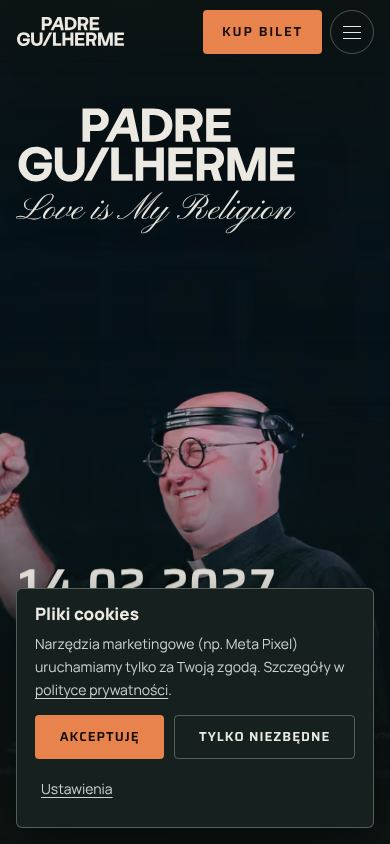
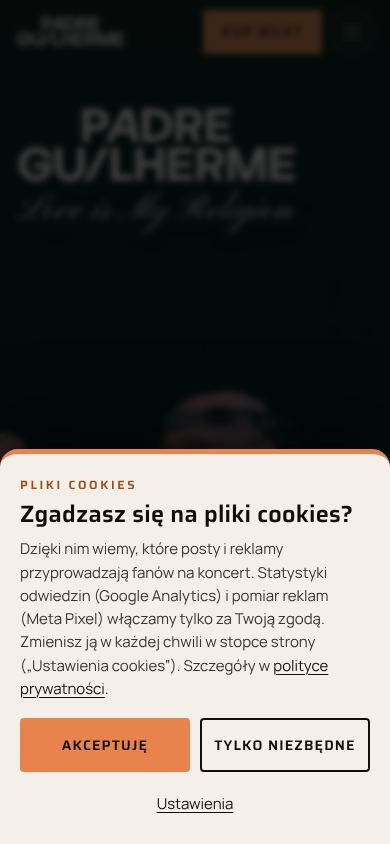
Baner cookies jako okno modalne (wyraźne, wybór przed dalszym przeglądaniem), fbclid w linkach Kup bilet
Uwaga agencji (28.10): baner w rogu zlewał się ze stroną i był pomijany, więc piksel nie startował.
- Okno modalne (<dialog> + showModal): strona przyciemniona i nieaktywna do wyboru; jasna karta
  odcina się od ciemnej strony; telefon: arkusz od dołu, komputer: środek ekranu; duże pytanie
  „Zgadzasz się na pliki cookies?” i krótko, po co (posty i reklamy przyprowadzające fanów).
- „Akceptuję” i „Tylko niezbędne” tej samej wielkości, widoczne bez przewijania (RODO, art. 399 PKE);
  Escape przy pierwszej wizycie nie zamyka okna, okno ze stopki zamyka i oddaje fokus.
- Bez showModal (stare przeglądarki) okno pokazuje się jak zwykły baner na dole.
- Linki „Kup bilet” przekazują też identyfikator kliknięcia reklamy (fbclid, gclid...) do eBilet,
  jak przekierowanie /bilety, żeby eBilet mógł przypisać zakup do reklamy.
- Testy: test-site 148/148 (nowe: okno modalne na 3 ekranach, równe przyciski, Escape, fbclid).

Claude-Session: https://claude.ai/code/session_01VWmRaWMyJhCKSyv75ZwcSc

diff --git a/index.html b/index.html
@@ -38,30 +38,31 @@
 <link rel="preload" href="assets/fonts/saira-pl.woff2" as="font" type="font/woff2" crossorigin>
 <link rel="preload" as="image" type="image/avif" imagesrcset="assets/img/hero-hd-m-600.avif?v=b63975ed 600w, assets/img/hero-hd-m-900.avif?v=0426b88e 900w, assets/img/hero-hd-m-1200.avif?v=6169c157 1200w, assets/img/hero-hd-m-1600.avif?v=4009c6de 1600w" imagesizes="100vw" media="(max-width: 767px) and (orientation: portrait)" fetchpriority="high">
 <link rel="preload" as="image" type="image/avif" imagesrcset="assets/img/hero-hd-960.avif?v=20fd5c1b 960w, assets/img/hero-hd-1440.avif?v=5f172bb5 1440w, assets/img/hero-hd-1920.avif?v=699e3273 1920w, assets/img/hero-hd-2560.avif?v=92996fc5 2560w, assets/img/hero-hd-3200.avif?v=f2b9bf8b 3200w" imagesizes="100vw" media="(min-width: 768px), (orientation: landscape)" fetchpriority="high">
-<link rel="stylesheet" href="assets/css/main.css?v=0cdc4c28">
-<script src="assets/js/config.js?v=b6ce08b6" defer></script>
+<link rel="stylesheet" href="assets/css/main.css?v=7cffbe88">
+<script src="assets/js/config.js?v=2302cd44" defer></script>
 <script>document.documentElement.classList.add('js');setTimeout(function(){if(!window.__pgReady)document.documentElement.classList.remove('js');},3000);</script>
-<script src="assets/js/main.js?v=410b020c" defer></script>
+<script src="assets/js/main.js?v=b7361297" defer></script>
 <script type="application/ld+json">{"@context":"https://schema.org","@graph":[{"@type":"WebSite","@id":"https://padreguilherme.pl/#strona","name":"Padre Guilherme w Atlas Arenie","url":"https://padreguilherme.pl/","inLanguage":"pl-PL","publisher":{"@id":"https://padreguilherme.pl/#live2listen"}},{"@type":"WebPage","@id":"https://padreguilherme.pl/#witryna","url":"https://padreguilherme.pl/","name":"Padre Guilherme w Polsce 2027 | Atlas Arena Łódź | Bilety","inLanguage":"pl-PL","isPartOf":{"@id":"https://padreguilherme.pl/#strona"},"about":{"@id":"https://padreguilherme.pl/#koncert"},"primaryImageOfPage":"https://padreguilherme.pl/assets/og-image.jpg"},{"@type":"MusicEvent","@id":"https://padreguilherme.pl/#koncert","name":"Padre Guilherme - Love is My Religion","description":"Koncert Padre Guilherme, księdza i DJ-a z Portugalii, który łączy energię techno z brzmieniem muzyki sakralnej. Support: Skytech.","startDate":"2027-02-14","eventStatus":"https://schema.org/EventScheduled","eventAttendanceMode":"https://schema.org/OfflineEventAttendanceMode","inLanguage":"pl-PL","url":"https://padreguilherme.pl/","image":["https://padreguilherme.pl/assets/og-image.jpg","https://padreguilherme.pl/assets/img/hero-hd-1920.jpg"],"location":{"@type":"Place","name":"Atlas Arena","url":"https://atlasarena.pl","address":{"@type":"PostalAddress","streetAddress":"al. Bandurskiego 7","postalCode":"94-020","addressLocality":"Łódź","addressRegion":"łódzkie","addressCountry":"PL"}},"performer":[{"@id":"https://padreguilherme.pl/#padre-guilherme"},{"@id":"https://padreguilherme.pl/#skytech"}],"organizer":{"@id":"https://padreguilherme.pl/#live2listen"},"offers":{"@type":"Offer","url":"https://www.ebilet.pl/muzyka/elektro-techno/padre-guilherme?partner=l2lsp#padre-guilherme_155685,1622","availability":"https://schema.org/InStock","validFrom":"2026-10-13"}},{"@type":"Person","@id":"https://padreguilherme.pl/#padre-guilherme","name":"Padre Guilherme","alternateName":"Guilherme Peixoto","description":"Portugalski ksiądz, DJ i producent muzyki elektronicznej.","nationality":{"@type":"Country","name":"Portugalia"},"image":"https://padreguilherme.pl/assets/img/artysta-1024.jpg","sameAs":["https://www.instagram.com/padre.guilherme/","https://www.tiktok.com/@padreguilherme","https://www.youtube.com/channel/UC8fYSaK9MMAvDmWIOZ2r1Yw","https://open.spotify.com/artist/7Gl7M2tjlIWsDWYa061TWh"]},{"@type":"Person","@id":"https://padreguilherme.pl/#skytech","name":"Skytech","description":"Polski DJ i producent muzyki elektronicznej.","url":"https://skytechmusic.com","image":"https://padreguilherme.pl/assets/img/skytech-pomaranczowe-800.jpg"},{"@type":"Organization","@id":"https://padreguilherme.pl/#live2listen","name":"Live2Listen","legalName":"L2L sp. z o.o.","url":"https://www.live2listen.com","sameAs":["https://www.facebook.com/live2listen/","https://www.instagram.com/live_2_listen/","https://www.tiktok.com/@live_2_listen"]},{"@type":"FAQPage","@id":"https://padreguilherme.pl/#faq","mainEntity":[{"@type":"Question","name":"Gdzie kupić bilety?","acceptedAnswer":{"@type":"Answer","text":"Bilety można zakupić wyłącznie, korzystając z linków zawartych na tej stronie. Bilety zakupione z innych źródeł mogą okazać się nieważne, a bilet nabyty z naruszeniem regulaminu może zostać unieważniony przez organizatora."}},{"@type":"Question","name":"Kiedy i gdzie odbędzie się koncert?","acceptedAnswer":{"@type":"Answer","text":"W niedzielę 14 lutego 2027 roku w Atlas Arenie w Łodzi, al. Bandurskiego 7."}},{"@type":"Question","name":"O której godzinie rozpocznie się wydarzenie?","acceptedAnswer":{"@type":"Answer","text":"Harmonogram wydarzenia zostanie opublikowany i przesłany do nabywców biletów na kilka dni przed wydarzeniem."}},{"@type":"Question","name":"Jak dojechać do Atlas Areny?","acceptedAnswer":{"@type":"Answer","text":"Atlas Arena znajduje się przy al. Bandurskiego 7 w Łodzi. Organizator zachęca do korzystania z komunikacji miejskiej lub taxi - oszczędzisz czas na szukaniu miejsca parkingowego. Dojazd i parkingi: atlasarena.pl: https://atlasarena.pl/"}},{"@type":"Question","name":"Czy osoby niepełnoletnie mogą uczestniczyć?","acceptedAnswer":{"@type":"Answer","text":"Tak. Osoby, które ukończyły 16 lat, mogą wejść samodzielnie z ważnym biletem i dokumentem potwierdzającym wiek. Brak dokumentu oznacza odmowę wstępu bez opiekuna. Osoby poniżej 16 lat mogą uczestniczyć w koncercie wyłącznie pod opieką osoby dorosłej i na jej odpowiedzialność. Bilet jest potrzebny zarówno dla dziecka, jak i dla opiekuna, a opiekun musi mieć wypełnione oświadczenie opiekuna małoletniego. Jedna osoba dorosła może być opiekunem maksymalnie pięciorga niepełnoletnich. Dzieci, które w dniu koncertu nie mają ukończonych 3 lat, wchodzą bezpłatnie. Zabierz dokument potwierdzający ich wiek i słuchawki ochronne. Regulamin wydarzeń Live2Listen: https://www.live2listen.com/regulamin"}},{"@type":"Question","name":"Jak wygląda dostępność dla osób z niepełnosprawnościami?","acceptedAnswer":{"@type":"Answer","text":"Jeśli osoba z niepełnosprawnością przychodzi z opiekunem, bilet potrzebny jest dla każdej z tych osób. Jeśli na planie sali nie ma oznaczonych miejsc dla osób poruszających się na wózkach, kup dowolny bilet - obsługa na miejscu wskaże bezpieczne miejsca przygotowane dla osób z niepełnosprawnościami. Jeśli potrzebujesz dodatkowego wsparcia, zgłoś się do obsługi widowni."}},{"@type":"Question","name":"Czy bilety można przekazać innej osobie?","acceptedAnswer":{"@type":"Answer","text":"Tak, bilet możesz przekazać innej osobie w aplikacji, w której go kupiono. Bilety na wydarzenia Live2Listen nie podlegają standardowemu zwrotowi, z wyjątkiem przypadków przewidzianych w przepisach prawa lub regulaminie sprzedaży. Jeśli nie możesz przyjść, skorzystaj z oficjalnej odsprzedaży biletów - będzie dostępna najpóźniej tydzień przed koncertem."}},{"@type":"Question","name":"Jak skontaktować się z organizatorem?","acceptedAnswer":{"@type":"Answer","text":"Organizatorem koncertu jest Live2Listen (L2L sp. z o.o.). Napisz przez formularz kontaktowy na stronie Live2Listen, także w sprawach mediów i akredytacji. W sprawach zakupu biletu, braku biletu w e-mailu lub kodu kreskowego kontaktuj się z obsługą klienta serwisu, w którym kupiono bilet. Formularz kontaktowy Live2Listen: https://www.live2listen.com/#kontakt"}},{"@type":"Question","name":"Co w przypadku zmiany terminu?","acceptedAnswer":{"@type":"Answer","text":"Jeśli koncert zostanie przeniesiony na inny termin lub do innego obiektu, kupione bilety zachowują ważność i nie trzeba ich wymieniać. O zmianie poinformuje Cię e-mailem dystrybutor biletów, a organizator opublikuje informację w swoich kanałach i na tej stronie."}},{"@type":"Question","name":"Co muszę mieć ze sobą, aby wejść na koncert?","acceptedAnswer":{"@type":"Answer","text":"Bilet i dokument tożsamości."}},{"@type":"Question","name":"Czy bilet elektroniczny trzeba wydrukować?","acceptedAnswer":{"@type":"Answer","text":"Nie. Na wejściu pokażesz bilet elektroniczny, np. na smartfonie. Zdjęcia i zrzuty ekranu biletów nie są akceptowane."}},{"@type":"Question","name":"Kupiłem/-am kilka biletów na swoje nazwisko. Czy pozostałe osoby wejdą bez problemu?","acceptedAnswer":{"@type":"Answer","text":"Tak, o ile ich bilety nie zostaną wcześniej zeskanowane. Najlepiej wchodźcie razem. Każdy bilet ma unikalny kod uprawniający do jednorazowego wejścia."}},{"@type":"Question","name":"Kupiłem/-am bilet, ale nie dostałem/-am go e-mailem albo nie ma na nim kodu kreskowego. Co robić?","acceptedAnswer":{"@type":"Answer","text":"Płatność mogła jeszcze nie zostać zaksięgowana. Jeśli po 24 godzinach (dniu roboczym) nadal nie masz biletu albo bilet nie ma kodu kreskowego, skontaktuj się z obsługą klienta serwisu, w którym kupiono bilet. Sprawdź też, czy adres e-mail przy zakupie nie zawierał literówki."}},{"@type":"Question","name":"Jakich przedmiotów nie można wnosić?","acceptedAnswer":{"@type":"Answer","text":"Na teren imprezy nie wolno wnosić m.in.: - kamer i sprzętu nagrywającego audio i wideo - profesjonalnego sprzętu fotograficznego, w tym aparatów z wymienną optyką i zoomem optycznym powyżej 6x - statywów i kijków do selfie - dronów - dużych parasoli z ostrymi zakończeniami - deskorolek, hulajnóg, rolek i podobnych pojazdów - jedzenia i napojów (z wyjątkiem diety potwierdzonej zaświadczeniem lekarskim) - dużych plecaków i toreb większych niż 11,4 × 16,51 cm - niebezpiecznych przedmiotów, w tym broni, petard i rac - alkoholu i środków odurzających Regulamin wydarzeń Live2Listen: https://www.live2listen.com/regulamin"}},{"@type":"Question","name":"Czy mogę robić zdjęcia i nagrywać filmy?","acceptedAnswer":{"@type":"Answer","text":"Tak, wyłącznie do użytku prywatnego i telefonem lub aparatem bez profesjonalnych funkcji. Organizator może wprowadzić dodatkowe zasady - poinformuje o nich na tej stronie."}},{"@type":"Question","name":"Czy mogę wyjść i wrócić?","acceptedAnswer":{"@type":"Answer","text":"Nie. Ponowne wejście po opuszczeniu terenu imprezy wymaga nowego biletu."}},{"@type":"Question","name":"Czy będzie szatnia?","acceptedAnswer":{"@type":"Answer","text":"Informacje o szatni znajdziesz na stronie Atlas Areny. Przechowanie odzieży wierzchniej jest płatne."}},{"@type":"Question","name":"Czy mogę przyjść ze zwierzęciem?","acceptedAnswer":{"@type":"Answer","text":"Nie. Ze względów bezpieczeństwa na wydarzenia Live2Listen nie można wprowadzać zwierząt."}}]}]}</script>
 </head>
 <body>
 <a class="skip-link" href="#tresc">Przejdź do treści</a>
 
-<div class="consent" data-consent role="dialog" aria-labelledby="consent-title" aria-describedby="consent-desc" hidden>
-  <p class="consent__title" id="consent-title"><strong>Pliki cookies</strong></p>
-  <p id="consent-desc">Statystyki odwiedzin (Google Analytics) i narzędzia marketingowe (Meta Pixel) uruchamiamy tylko za Twoją zgodą. Szczegóły w <a href="https://www.live2listen.com/prywatnosc" data-privacy-link target="_blank" rel="noopener">polityce prywatności<span class="visually-hidden"> (otwiera się w nowej karcie)</span></a>.</p>
+<dialog class="consent" data-consent aria-labelledby="consent-title" aria-describedby="consent-desc">
+  <p class="consent__kicker" aria-hidden="true">Pliki cookies</p>
+  <p class="consent__title" id="consent-title" tabindex="-1">Zgadzasz się na pliki cookies?</p>
+  <p class="consent__desc" id="consent-desc">Dzięki nim wiemy, które posty i reklamy przyprowadzają fanów na koncert. Statystyki odwiedzin (Google Analytics) i pomiar reklam (Meta Pixel) włączamy tylko za Twoją zgodą. Zmienisz ją w każdej chwili w stopce strony („Ustawienia cookies”). Szczegóły w <a href="https://www.live2listen.com/prywatnosc" data-privacy-link target="_blank" rel="noopener">polityce prywatności<span class="visually-hidden"> (otwiera się w nowej karcie)</span></a>.</p>
   <div class="consent__opts" data-consent-opts hidden>
     <label class="check"><input type="checkbox" checked disabled> <span>Niezbędne - zawsze aktywne</span></label>
     <label class="check"><input type="checkbox" data-consent-analytics> <span>Analityczne (statystyki odwiedzin)</span></label>
     <label class="check"><input type="checkbox" data-consent-marketing> <span>Marketingowe (remarketing i pomiar reklam)</span></label>
   </div>
   <div class="consent__actions">
-    <button class="btn btn--primary btn--sm" type="button" data-consent-accept>Akceptuję</button>
-    <button class="btn btn--ghost btn--sm" type="button" data-consent-reject>Tylko niezbędne</button>
+    <button class="btn btn--primary" type="button" data-consent-accept>Akceptuję</button>
+    <button class="btn btn--ghost" type="button" data-consent-reject>Tylko niezbędne</button>
+    <button class="btn btn--ghost consent__save" type="button" data-consent-save hidden>Zapisz wybór</button>
     <button class="linklike consent__more" type="button" data-consent-custom>Ustawienia</button>
-    <button class="btn btn--ghost btn--sm" type="button" data-consent-save hidden>Zapisz wybór</button>
   </div>
-</div>
+</dialog>
 
 <header class="site-header" data-header>
   <div class="site-header__inner wrap">

diff --git a/assets/js/main.js b/assets/js/main.js
@@ -32,6 +32,17 @@
     } catch (e) { /* brak URLSearchParams */ }
     return found;
   })();
+  // Identyfikatory kliknięcia reklamy (fbclid z Meta, gclid z Google...): tylko do linków „Kup bilet”, jak w /bilety.
+  // Dzięki nim eBilet (po zgodzie w swoim banerze) przypisze zakup do reklamy. Nie trafiają do zdarzeń pomiaru.
+  var CLICK_KEYS = ['fbclid', 'gclid', 'gbraid', 'wbraid', 'ttclid', 'msclkid'];
+  var clickIds = (function () {
+    var found = {};
+    try {
+      var qs = new URLSearchParams(location.search);
+      CLICK_KEYS.forEach(function (k) { var v = qs.get(k); if (v && /^[A-Za-z0-9._-]{1,1000}$/.test(v)) found[k] = v; });
+    } catch (e) { /* brak URLSearchParams */ }
+    return found;
+  })();
 
   /* ---------- Pomiar ---------- */
   window.dataLayer = window.dataLayer || [];
@@ -124,15 +135,22 @@
     var btnSave = $('[data-consent-save]', box);
     var btnCustom = $('[data-consent-custom]', box);
     var opener = null;
-    // Miejsce pod banerem: element z fokusem nie chowa się za nim (scroll-padding) i da się dojść do końca strony.
-    function reserve(on) {
-      var h = on ? (box.offsetHeight + 24) + 'px' : '';
-      root.style.scrollPaddingBottom = h; doc.body.style.paddingBottom = h;
+    // Okno modalne: strona za nim jest nieaktywna, fokus zostaje w oknie. Bez showModal (stare przeglądarki)
+    // okno pokazuje się jak zwykły baner na dole ekranu.
+    function show() {
+      if (!box.hasAttribute('open')) {
+        try { box.showModal(); root.classList.add('consent-open'); } catch (e) { box.setAttribute('open', ''); }
+      }
+      updateSticky();
+    }
+    function hide() {
+      if (box.hasAttribute('open')) { try { box.close(); } catch (e) { box.removeAttribute('open'); } }
+      root.classList.remove('consent-open'); updateSticky();
     }
     function save(c) {
       c.v = CONSENT_V; c.ts = Date.now();
       store.set('pg_consent', c);
-      box.hidden = true; reserve(false); updateSticky();
+      hide();
       if (withdraw(c)) { location.reload(); return; }
       applyConsent(c);
       var back = opener && opener.isConnected ? opener : doc.getElementById('tresc');
@@ -143,8 +161,7 @@
       var saved = readConsent() || {};
       cbA.checked = !!saved.analytics; cbM.checked = !!saved.marketing;
       opts.hidden = !custom; btnSave.hidden = !custom; btnCustom.hidden = !!custom;
-      box.hidden = false;
-      reserve(true); updateSticky();
+      show();
     }
     $('[data-consent-accept]', box).addEventListener('click', function () { save({ analytics: true, marketing: true }); });
     $('[data-consent-reject]', box).addEventListener('click', function () { save({ analytics: false, marketing: false }); });
@@ -152,25 +169,27 @@
     btnSave.addEventListener('click', function () { save({ analytics: cbA.checked, marketing: cbM.checked }); });
     var reopen = $('[data-consent-open]');
     if (reopen) { reopen.hidden = false; reopen.addEventListener('click', function () { opener = reopen; open(true); cbA.focus(); }); }
-    window.addEventListener('resize', function () { if (!box.hidden) reserve(true); });
-    box.addEventListener('keydown', function (e) {
-      if (!opener) return;
-      if (e.key === 'Escape') { e.preventDefault(); box.hidden = true; reserve(false); updateSticky(); var o = opener; opener = null; o.focus(); return; }
-      if (e.key !== 'Tab') return;
-      var f = $$('input:not([disabled]), button, a[href]', box).filter(function (el) { return el.offsetParent !== null; });
-      if ((!e.shiftKey && doc.activeElement === f[f.length - 1]) || (e.shiftKey && doc.activeElement === f[0])) { e.preventDefault(); opener.focus(); }
+    // Escape (i gest „wstecz” na Androidzie): przy pierwszej wizycie okno zostaje, bo czeka na wybór;
+    // otwarte ze stopki („Ustawienia cookies”) zamyka się bez zmian. Gdyby przeglądarka i tak je zamknęła,
+    // nic nie jest zapisywane: brak zgody, okno wróci przy następnej wizycie.
+    box.addEventListener('cancel', function (e) { if (!opener) e.preventDefault(); });
+    box.addEventListener('close', function () {
+      root.classList.remove('consent-open'); updateSticky();
+      if (opener) { var o = opener; opener = null; o.focus(); }
     });
     var saved = readConsent();
-    if (saved) applyConsent(saved); else open(false);
+    if (saved) applyConsent(saved);
+    else { open(false); var t = $('#consent-title', box); if (t) t.focus({ preventScroll: true }); }
   }
 
   /* ---------- Bilety ---------- */
   function ticketHref() {
     if (!cfg.ticketUrl) return '';
-    if (!cfg.passUtmToTicketUrl || !Object.keys(campaign).length) return cfg.ticketUrl;
+    if (!cfg.passUtmToTicketUrl || !(Object.keys(campaign).length || Object.keys(clickIds).length)) return cfg.ticketUrl;
     try {
       var u = new URL(cfg.ticketUrl);
       UTM_KEYS.forEach(function (k) { if (campaign[k] && k.indexOf('utm_') === 0 && !u.searchParams.has(k)) u.searchParams.set(k, campaign[k]); });
+      CLICK_KEYS.forEach(function (k) { if (clickIds[k] && !u.searchParams.has(k)) u.searchParams.set(k, clickIds[k]); });
       return u.toString();
     } catch (e) { return cfg.ticketUrl; }
   }
@@ -575,7 +594,7 @@
     if (!sticky) return;
     var consentBox = $('[data-consent]');
     var show = mqMobile.matches && !stickyState.heroVisible && !stickyState.stopVisible && !stickyState.typing &&
-      !root.classList.contains('nav-open') && !root.classList.contains('lb-open') && !(consentBox && !consentBox.hidden);
+      !root.classList.contains('nav-open') && !root.classList.contains('lb-open') && !(consentBox && consentBox.hasAttribute('open'));
     sticky.classList.toggle('is-visible', show);
     root.classList.toggle('has-sticky', show);
     sticky.setAttribute('aria-hidden', String(!show));

diff --git a/assets/css/main.css b/assets/css/main.css
@@ -619,24 +619,49 @@ a:hover .play, a:focus-visible .play { background: var(--accent); color: var(--i
 .lb-open { overflow: hidden; }
 
 /* ==== Zgoda na cookies ==== */
-.consent { position: fixed; left: 16px; right: 16px; bottom: calc(16px + env(safe-area-inset-bottom, 0px)); z-index: 90; max-width: 440px; max-height: calc(100vh - 32px); max-height: calc(100dvh - 32px - env(safe-area-inset-bottom, 0px)); overflow-y: auto; overscroll-behavior: contain; padding: 22px; border: 1px solid var(--line-2); border-radius: 6px; background: var(--surface); box-shadow: 0 20px 60px rgba(0, 0, 0, 0.5); font-size: 0.875rem; color: var(--fg-2); }
-.consent__title { font-size: 1.0625rem; line-height: 1.3; color: var(--fg); }
-@media (min-width: 768px) { .consent { left: auto; right: 16px; } }
-.nav-open .consent { visibility: hidden; }
-.consent p + p { margin-top: 8px; }
-.consent__opts { margin-top: 8px; }
-.consent__actions { display: flex; flex-wrap: wrap; align-items: center; gap: 8px 10px; margin-top: 14px; }
-.consent__actions .btn { padding: 0 16px; letter-spacing: 0.08em; }
-.consent__more { min-height: 44px; padding: 0 6px; font-size: 0.875rem; color: var(--fg-2); }
-@media (max-width: 480px) {
-  .consent { left: 8px; right: 8px; bottom: calc(8px + env(safe-area-inset-bottom, 0px)); padding: 12px 14px; font-size: 0.8125rem; line-height: 1.45; }
-  /* Tytuł tylko dla czytników ekranu: baner zasłania mniej z pierwszego ekranu. */
-  .consent__title { position: absolute; width: 1px; height: 1px; margin: -1px; overflow: hidden; clip: rect(0 0 0 0); white-space: nowrap; }
-  .consent p { margin-top: 0; }
-  .consent__actions { flex-wrap: wrap; gap: 6px; margin-top: 10px; }
-  .consent__actions .btn { flex: 1 1 0; min-height: 44px; padding: 0 10px; font-size: 0.75rem; letter-spacing: 0.04em; }
-  .consent__actions .consent__more { flex: none; padding: 0 4px; font-size: 0.8125rem; }
+/* Okno modalne (<dialog> + showModal): strona za nim jest przyciemniona i nieaktywna do wyboru.
+   Jasna karta odcina się od ciemnej strony. Telefon: arkusz od dołu (kciuk), komputer: środek ekranu.
+   „Akceptuję” i „Tylko niezbędne” mają ten sam rozmiar i są równie łatwe do kliknięcia (RODO, art. 399 PKE). */
+.consent {
+  --c-bg: #F4EFE8; --c-text: #3A3330; --c-kicker: #A54A17;
+  color-scheme: light;
+  position: fixed; inset: auto 0 0 0; z-index: 95;
+  width: 100%; max-width: none; height: auto; max-height: calc(100vh - 12px); max-height: calc(100dvh - 12px);
+  margin: 0; padding: 22px 20px calc(18px + env(safe-area-inset-bottom, 0px));
+  overflow-y: auto; overscroll-behavior: contain;
+  border: 0; border-top: 5px solid var(--accent); border-radius: 18px 18px 0 0;
+  background: var(--c-bg); color: var(--ink); box-shadow: 0 -24px 70px rgba(0, 0, 0, 0.6);
+  font-size: 0.9375rem; line-height: 1.55;
 }
+.consent:not([open]) { display: none; }
+.consent::backdrop { background: rgba(4, 8, 7, 0.76); -webkit-backdrop-filter: blur(3px); backdrop-filter: blur(3px); }
+.consent[open] { animation: consent-in 0.34s var(--ease) both; }
+.consent[open]::backdrop { animation: consent-fade 0.34s ease both; }
+@keyframes consent-in { from { transform: translateY(40px); opacity: 0; } }
+@keyframes consent-fade { from { opacity: 0; } }
+.consent-open { overflow: hidden; }
+.consent__kicker { margin: 0; font-family: var(--f-display); font-weight: 600; font-size: 0.75rem; letter-spacing: 0.22em; text-transform: uppercase; color: var(--c-kicker); }
+.consent__title { margin: 6px 0 0; font-family: var(--f-display); font-weight: 600; font-size: clamp(1.4rem, 1.15rem + 1.3vw, 2rem); line-height: 1.15; letter-spacing: 0.01em; color: var(--ink); text-wrap: balance; }
+.consent__title:focus { outline: none; }
+.consent__desc { margin: 10px 0 0; color: var(--c-text); }
+.consent a { color: var(--ink); text-decoration-thickness: 1px; text-underline-offset: 0.18em; }
+.consent a:focus-visible, .consent button:focus-visible, .consent input:focus-visible { outline: 3px solid var(--ink); outline-offset: 2px; }
+.consent__opts { margin-top: 6px; }
+.consent .check { color: var(--c-text); }
+.consent__actions { display: grid; grid-template-columns: 1fr 1fr; gap: 10px; margin-top: 18px; }
+.consent__actions .btn { min-height: 54px; padding: 6px 10px; font-size: 0.875rem; letter-spacing: 0.08em; line-height: 1.2; white-space: normal; text-align: center; }
+.consent .btn--ghost { border: 2px solid var(--ink); color: var(--ink); background: transparent; }
+.consent .btn--ghost:hover { border-color: var(--ink); color: var(--ink); background: rgba(21, 13, 8, 0.07); }
+.consent__save { grid-column: 1 / -1; }
+.consent__more { grid-column: 1 / -1; justify-self: center; min-height: 44px; padding: 0 10px; font-size: 0.9375rem; color: var(--ink); }
+@media (max-width: 339px) { .consent__actions { grid-template-columns: 1fr; } }
+@media (min-width: 768px) {
+  .consent { inset: 0; width: min(600px, calc(100% - 48px)); height: fit-content; max-height: calc(100vh - 48px); max-height: calc(100dvh - 48px); margin: auto; padding: 34px 40px 26px; border-top-width: 6px; border-radius: 14px; box-shadow: 0 30px 90px rgba(0, 0, 0, 0.65); font-size: 1rem; }
+  .consent[open] { animation-name: consent-pop; }
+  .consent__actions .btn { min-height: 56px; font-size: 0.9375rem; }
+}
+@keyframes consent-pop { from { transform: translateY(16px) scale(0.98); opacity: 0; } }
+@media (prefers-reduced-motion: reduce) { .consent[open], .consent[open]::backdrop { animation: none; } }
 
 /* ==== Bez JavaScriptu (lub gdy main.js się nie wczyta) ==== */
 html:not(.js) .acc__icon, html:not(.js) .expander__icon { display: none; }

diff --git a/src/index.html b/src/index.html
@@ -46,21 +46,23 @@
 <body>
 <a class="skip-link" href="#tresc">Przejdź do treści</a>
 
-<div class="consent" data-consent role="dialog" aria-labelledby="consent-title" aria-describedby="consent-desc" hidden>
-  <p class="consent__title" id="consent-title"><strong>Pliki cookies</strong></p>
-  <p id="consent-desc">Statystyki odwiedzin (Google Analytics) i narzędzia marketingowe (Meta Pixel) uruchamiamy tylko za Twoją zgodą. Szczegóły w <a href="https://www.live2listen.com/prywatnosc" data-privacy-link target="_blank" rel="noopener">polityce prywatności</a>.</p>
+<!-- Zgoda na cookies: okno modalne (przyciemniona strona), wybór przed dalszym przeglądaniem. „Akceptuję” i „Tylko niezbędne” są tak samo duże i łatwe (wymóg RODO i art. 399 PKE). -->
+<dialog class="consent" data-consent aria-labelledby="consent-title" aria-describedby="consent-desc">
+  <p class="consent__kicker" aria-hidden="true">Pliki cookies</p>
+  <p class="consent__title" id="consent-title" tabindex="-1">Zgadzasz się na pliki cookies?</p>
+  <p class="consent__desc" id="consent-desc">Dzięki nim wiemy, które posty i reklamy przyprowadzają fanów na koncert. Statystyki odwiedzin (Google Analytics) i pomiar reklam (Meta Pixel) włączamy tylko za Twoją zgodą. Zmienisz ją w każdej chwili w stopce strony („Ustawienia cookies”). Szczegóły w <a href="https://www.live2listen.com/prywatnosc" data-privacy-link target="_blank" rel="noopener">polityce prywatności</a>.</p>
   <div class="consent__opts" data-consent-opts hidden>
     <label class="check"><input type="checkbox" checked disabled> <span>Niezbędne - zawsze aktywne</span></label>
     <label class="check"><input type="checkbox" data-consent-analytics> <span>Analityczne (statystyki odwiedzin)</span></label>
     <label class="check"><input type="checkbox" data-consent-marketing> <span>Marketingowe (remarketing i pomiar reklam)</span></label>
   </div>
   <div class="consent__actions">
-    <button class="btn btn--primary btn--sm" type="button" data-consent-accept>Akceptuję</button>
-    <button class="btn btn--ghost btn--sm" type="button" data-consent-reject>Tylko niezbędne</button>
+    <button class="btn btn--primary" type="button" data-consent-accept>Akceptuję</button>
+    <button class="btn btn--ghost" type="button" data-consent-reject>Tylko niezbędne</button>
+    <button class="btn btn--ghost consent__save" type="button" data-consent-save hidden>Zapisz wybór</button>
     <button class="linklike consent__more" type="button" data-consent-custom>Ustawienia</button>
-    <button class="btn btn--ghost btn--sm" type="button" data-consent-save hidden>Zapisz wybór</button>
   </div>
-</div>
+</dialog>
 
 <header class="site-header" data-header>
   <div class="site-header__inner wrap">

diff --git a/assets/js/config.js b/assets/js/config.js
@@ -11,7 +11,8 @@ window.PADRE_CONFIG = {
   // decyzja Marka z 19.10.2026). Wszystkie przyciski „Kup bilet” prowadzą tutaj, UTM są dopisywane do adresu.
   // Adres bez ukośnika przed „?”: wersja z ukośnikiem przekierowuje (301) dokładnie na ten adres.
   ticketUrl: 'https://www.ebilet.pl/muzyka/elektro-techno/padre-guilherme?partner=l2lsp#padre-guilherme_155685,1622',
-  // Dopisuje utm_* z adresu strony do linku eBilet (atrybucja kampanii po stronie sprzedawcy).
+  // Dopisuje utm_* i identyfikator kliknięcia reklamy (fbclid, gclid...) z adresu strony do linku eBilet
+  // (atrybucja kampanii i zakupów po stronie sprzedawcy, tak jak przekierowanie /bilety).
   passUtmToTicketUrl: true,
 
   // Akredytacje: tymczasowo formularz kontaktowy Live2Listen (decyzja z 19.10.2026).
